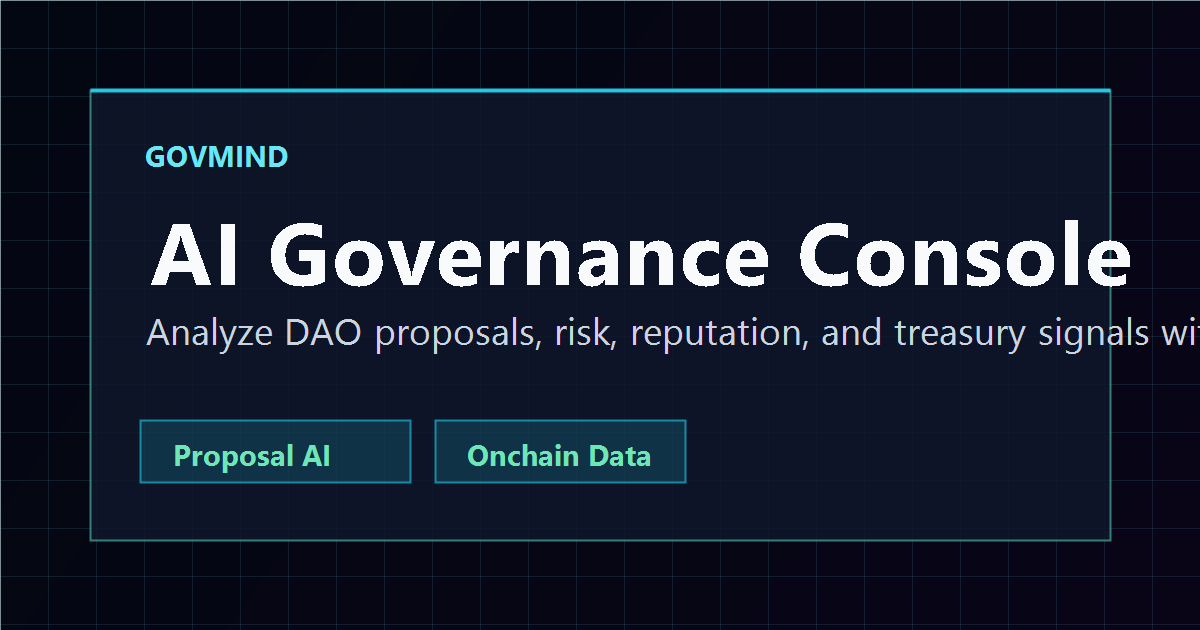
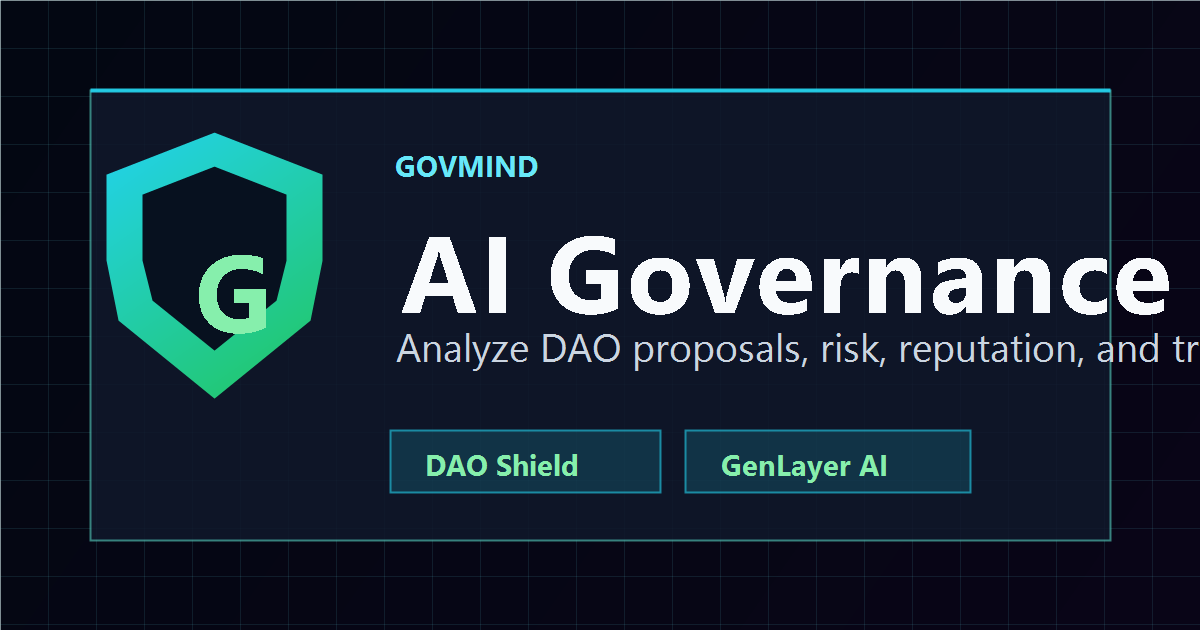
Add DAO Shield branding

Changed region(s): [[0.0617, 0.2111, 1.0, 0.6333], [0.0925, 0.6635, 0.8325, 0.7841], [0.3083, 0.2413, 0.4625, 0.3016]]

diff --git a/src/components/AppLayout.jsx b/src/components/AppLayout.jsx
@@ -32,9 +32,14 @@ export function AppLayout({
           <button
             type="button"
             onClick={() => handleNavigate('home')}
-            className="order-1 shrink-0 text-left text-lg font-semibold text-white"
+            className="order-1 flex shrink-0 items-center gap-2 text-left text-lg font-semibold text-white"
           >
-            GovMind
+            <img
+              src="/favicon.svg"
+              alt=""
+              className="h-8 w-8 rounded-xl border border-cyan-300/20 bg-slate-950/70 p-1"
+            />
+            <span>GovMind</span>
           </button>
 
           <nav
